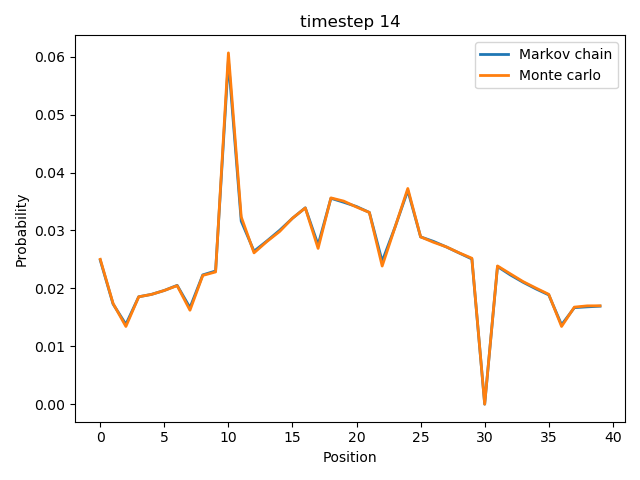
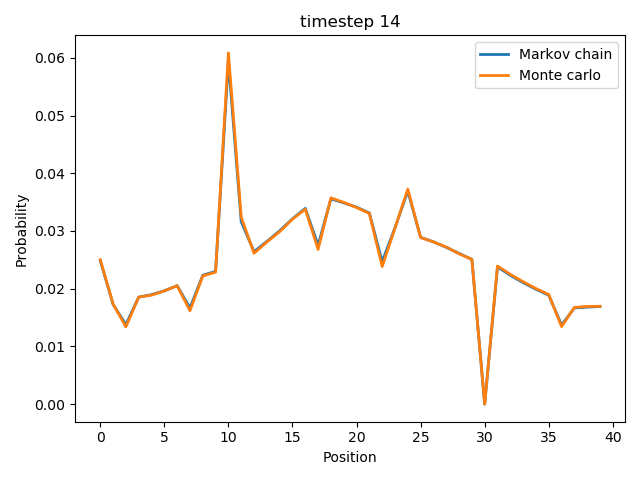
Single loop for efficiency

diff --git a/Monopoly.py b/Monopoly.py
@@ -28,29 +28,27 @@ class Monopoly_MarkovChain(Monopoly):
         # Set up probability matrix
 
         prob_mat = [[0.]*40 for i in range(40)]
+        prob_three_doubles = 1/6**3
+
         for n in range(40):
             for m in range(2,13):
                 if n+m < 40: prob_mat[n+m][n]    = dice_roll_prob(m)
                 else:        prob_mat[n+m-40][n] = dice_roll_prob(m)
 
-        # Roll three doubles (probability 1/6**3), go to jail
-        if self.three_doubles_jail:
-            for n in range(40):
-                prob_mat[10][n] += (1/6)**3
+            # Roll three doubles (probability 1/6**3), go to jail
+            if self.three_doubles_jail:
                 for m in range(40):
-                    prob_mat[m][n] *= (1-(1/6)**3)
+                    prob_mat[m][n] *= (1-prob_three_doubles)
+                prob_mat[10][n] += prob_three_doubles
 
-        # Go to jail square
-        # Unoptimised second loop because this is a relatively short loop anyway
-        for n in range(40):
+            # Go to jail square
             prob_mat[10][n] += prob_mat[30][n]
             prob_mat[30][n] = 0
 
-        # Chance cards 
-        n_chance = self.n_chance 
-        chance_locs     = self.chance_locs 
-        chance_advances = self.chance_advances 
-        for n in range(40):
+            # Chance cards 
+            n_chance = self.n_chance 
+            chance_locs     = self.chance_locs 
+            chance_advances = self.chance_advances 
             for chance in chance_locs:
                 for advance in chance_advances:
                     p_advance_to = prob_mat[chance][n]/n_chance
@@ -128,7 +126,7 @@ class Monopoly_MonteCarlo(Monopoly):
         counts = counts/sum(counts)
         return counts
 
-def PlotMonopolyComparison(outfolder='MonopolyComparison/', n_steps=20):
+def PlotMonopolyComparison(outfolder='docs/MonopolyComparison/', n_steps=20):
     mark  = Monopoly_MarkovChain()
     monte = Monopoly_MonteCarlo(10000000)
     for n in range(n_steps):
